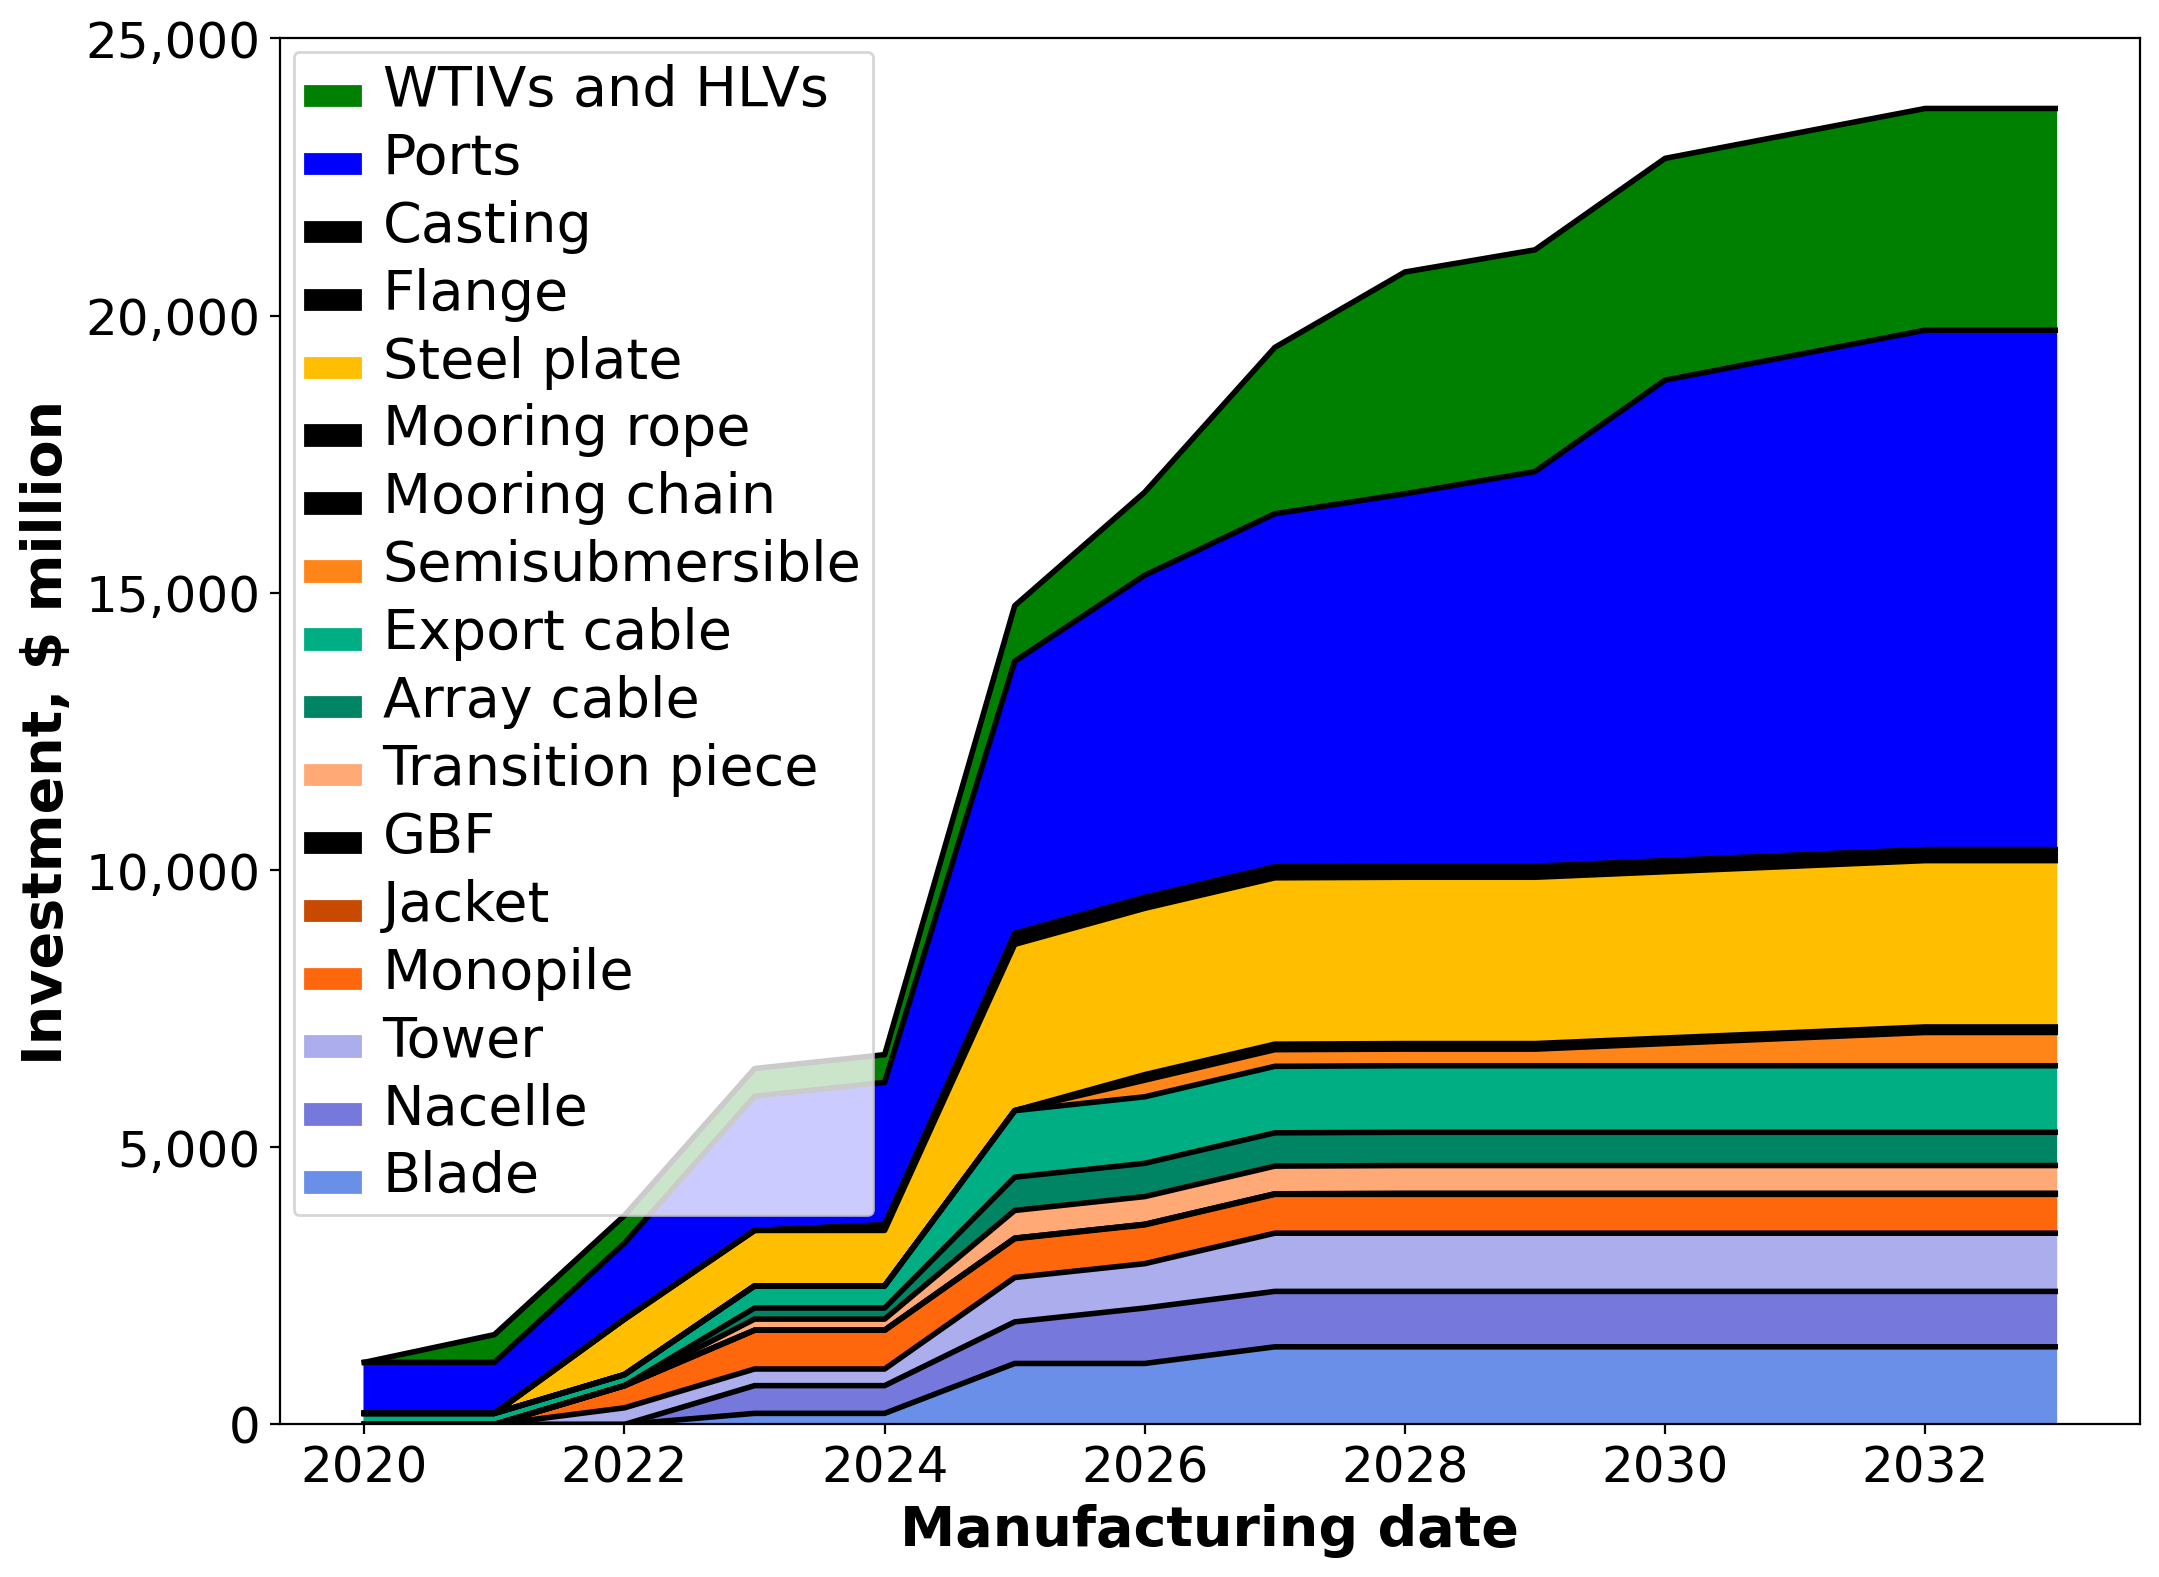
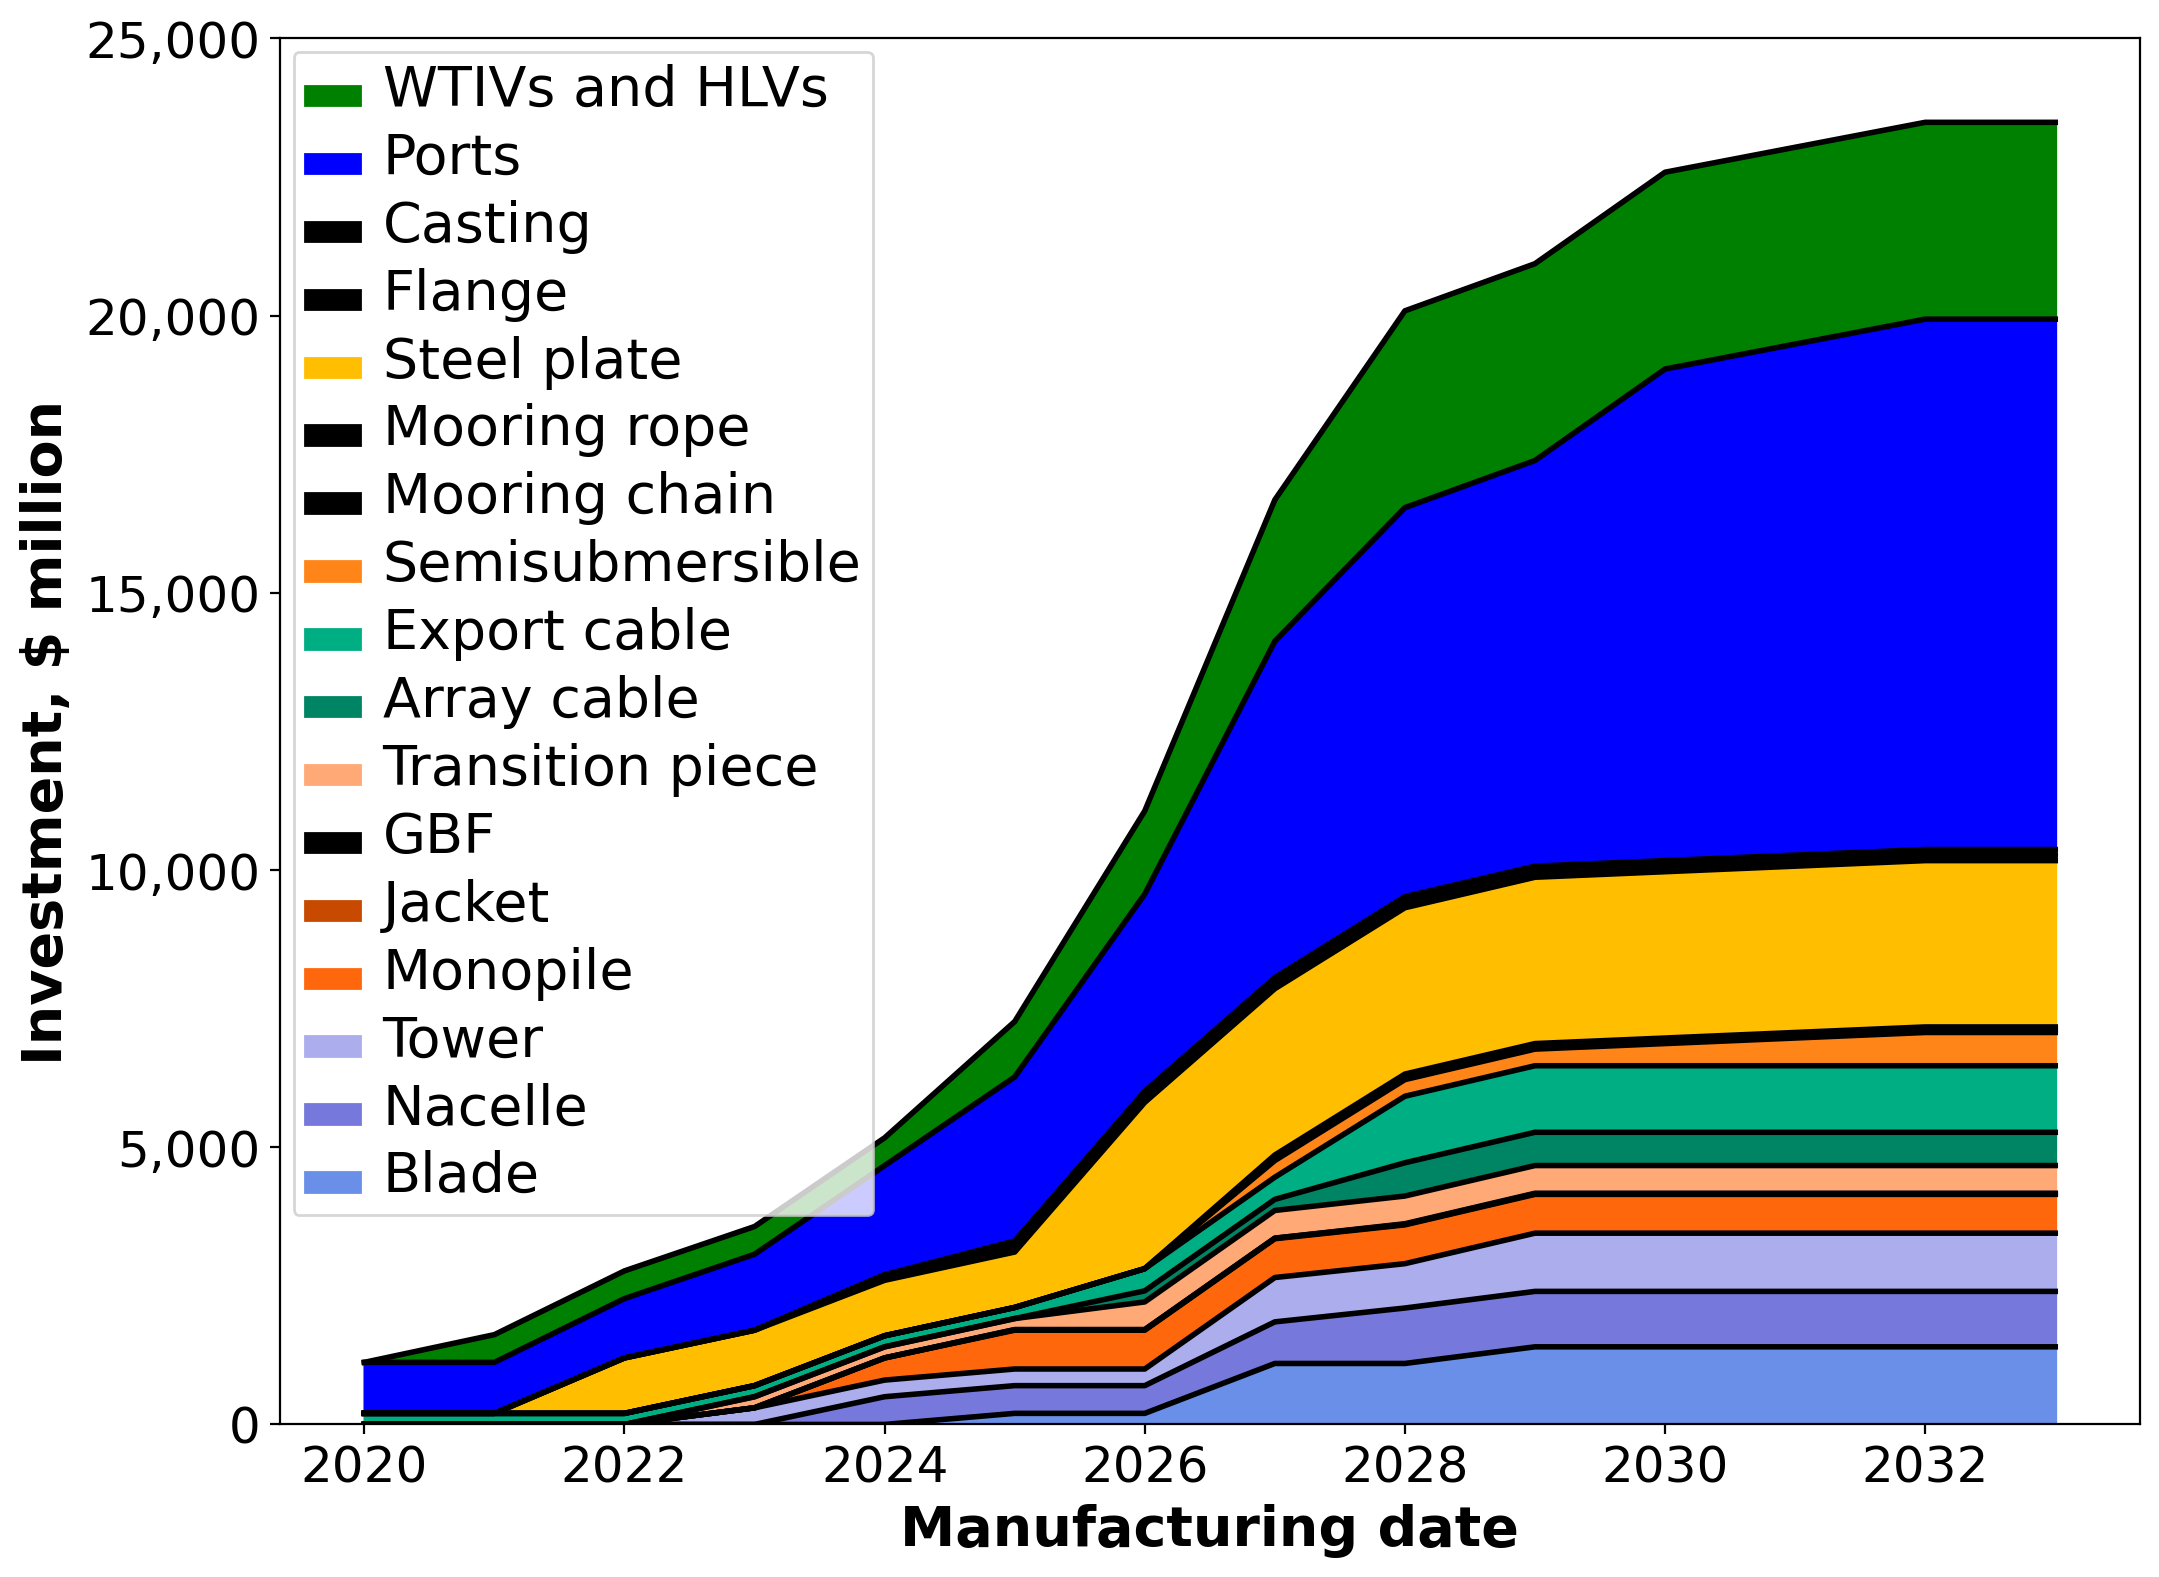
Adding plot for number of facilities per state

diff --git a/additional_plots.py b/additional_plots.py
@@ -1,19 +1,44 @@
 import pandas as pd
 import numpy as np
-from plot_routines import stacked_bar_2ser
+from plot_routines import stacked_bar_2ser, simple_bar
+
+dir_ind_jobs = True
+state_facilities = True
 
 if __name__ == '__main__':
     ##### Gaps assessment slide deck
-    # Direct vs indirect Jobs
-    component = ['Nacelle', 'Blade', 'Tower', 'Monopile', 'Transition \npiece', 'Jacket', 'Offshore \nsubstation', 'Cable']
-    direct = np.array([35.6, 48.3, 43.7, 34.3, 34.3, 34.3, 71.3, 38.4])
-    indirect = np.array([64.4, 51.9, 56.4, 65.7, 65.7, 65.7, 28.7, 61.6])
-    dir_col = '#FF8500'
-    indir_col = '#055B7C'
-    n1 = 'Direct jobs'
-    n2 = 'Indirect jobs'
-    ylabel = 'Breakdown of direct and indirect jobs, %'
-    fname = 'results/additional_plots/dir_ind_jobs.png'
-    ymax=100
 
-    stacked_bar_2ser(component, direct, indirect, dir_col, indir_col, n1, n2, ylabel, fname, ymax)
+
+
+    # Direct vs indirect Jobs
+    if dir_ind_jobs == True:
+        component = ['Nacelle', 'Blade', 'Tower', 'Monopile', 'Transition \npiece', 'Jacket', 'Offshore \nsubstation', 'Cable']
+        direct = np.array([35.6, 48.3, 43.7, 34.3, 34.3, 34.3, 71.3, 38.4])
+        indirect = np.array([64.4, 51.9, 56.4, 65.7, 65.7, 65.7, 28.7, 61.6])
+        dir_col = '#FF8500'
+        indir_col = '#055B7C'
+        n1 = 'Direct jobs'
+        n2 = 'Indirect jobs'
+        ylabel = 'Breakdown of direct and indirect jobs, %'
+        fname = 'results/additional_plots/dir_ind_jobs.png'
+        ymax=100
+
+        stacked_bar_2ser(component, direct, indirect, dir_col, indir_col, n1, n2, ylabel, fname, ymax)
+
+
+    if state_facilities == True:
+        filepath = 'C:/Users/mshields/Documents/Projects/Supply Chain Roadmap/Analysis repos/Roadmap/fabrication_ports/ports_scenario_max.xlsx'
+        scenario = pd.read_excel(filepath, header=9, usecols='A:P')
+        state_ports = pd.pivot_table(scenario, index='State', values='Factory', aggfunc=len)
+        states = np.array(state_ports.index)
+        factories = np.array(state_ports['Factory'])
+
+        factory_ind = np.argsort(factories)
+        sort_states = [states[i] for i in factory_ind[::-1]]
+        sort_factories = [factories[i] for i in factory_ind[::-1]]
+
+        yticks = np.arange(0,max(factories)+1,1)
+        ylabel = 'Number of factories'
+        fname = 'results/state_factories'
+
+        simple_bar(sort_states, sort_factories, yticks, ylabel=ylabel, fname=fname)

diff --git a/main.py b/main.py
@@ -15,16 +15,16 @@ scenarios = {
 'legend': 'Accelerated supply chain growth',
 'linetype': '--'
 },
-'Conservative': {
-'filepath_ports': "fabrication_ports/ports_scenario_max.xlsx",
-'legend': 'Conservative supply chain growth',
-'linetype': '.-'
-},
-'Aggressive': {
-'filepath_ports': "fabrication_ports/ports_scenario_aggressive.xlsx",
-'legend': 'Aggressive supply chain growth',
-'linetype': ':'
-}
+# 'Conservative': {
+# 'filepath_ports': "fabrication_ports/ports_scenario_max.xlsx",
+# 'legend': 'Conservative supply chain growth',
+# 'linetype': '.-'
+# },
+# 'Aggressive': {
+# 'filepath_ports': "fabrication_ports/ports_scenario_aggressive.xlsx",
+# 'legend': 'Aggressive supply chain growth',
+# 'linetype': ':'
+# }
 }
 
 # Common paramters

diff --git a/helpers.py b/helpers.py
@@ -37,8 +37,8 @@ job_breakdown = {'Design and engineering': .03,
 
 # Copy vessel/port investment schedule from CORAL/investment_schedule.CSV
 # TODO: make this dynamic
-ports_inv = np.cumsum([770, 0, 0, 0, 0, 387, 0, 260, 200, 400, 1400, 200, 200, 0])
-vessel_inv = np.cumsum([0, 500, 0, 0, 0, 500, 500, 1500, 1000, 0, 0, 0, 0, 0])
+ports_inv = np.cumsum([770, 0, 0, 0, 0, 387, 0, 860, 200, 0, 1400, 200, 200, 0])
+vessel_inv = np.cumsum([0, 500, 0, 0, 0, 500, 500, 1050, 1000, 0, 0, 0, 0, 0])
 
 
 ymax_plots = {'Monopile': 350,

diff --git a/plot_routines.py b/plot_routines.py
@@ -420,3 +420,16 @@ def lineplot_comp(x, y, legend, linetype, xlabel, ylabel, xlim, ylim, fname):
         myformat(ax)
         mysave(fig, fname)
         plt.close()
+
+def simple_bar(x, y, yticks, xlabel=None, ylabel=None, fname=None):
+    fig, ax = initFigAxis()
+
+    ax.bar(x, y)
+    ax.set_xlabel(xlabel)
+    ax.set_ylabel(ylabel)
+    ax.set_yticks(yticks)
+
+    if fname:
+        myformat(ax)
+        mysave(fig, fname)
+        plt.close()
